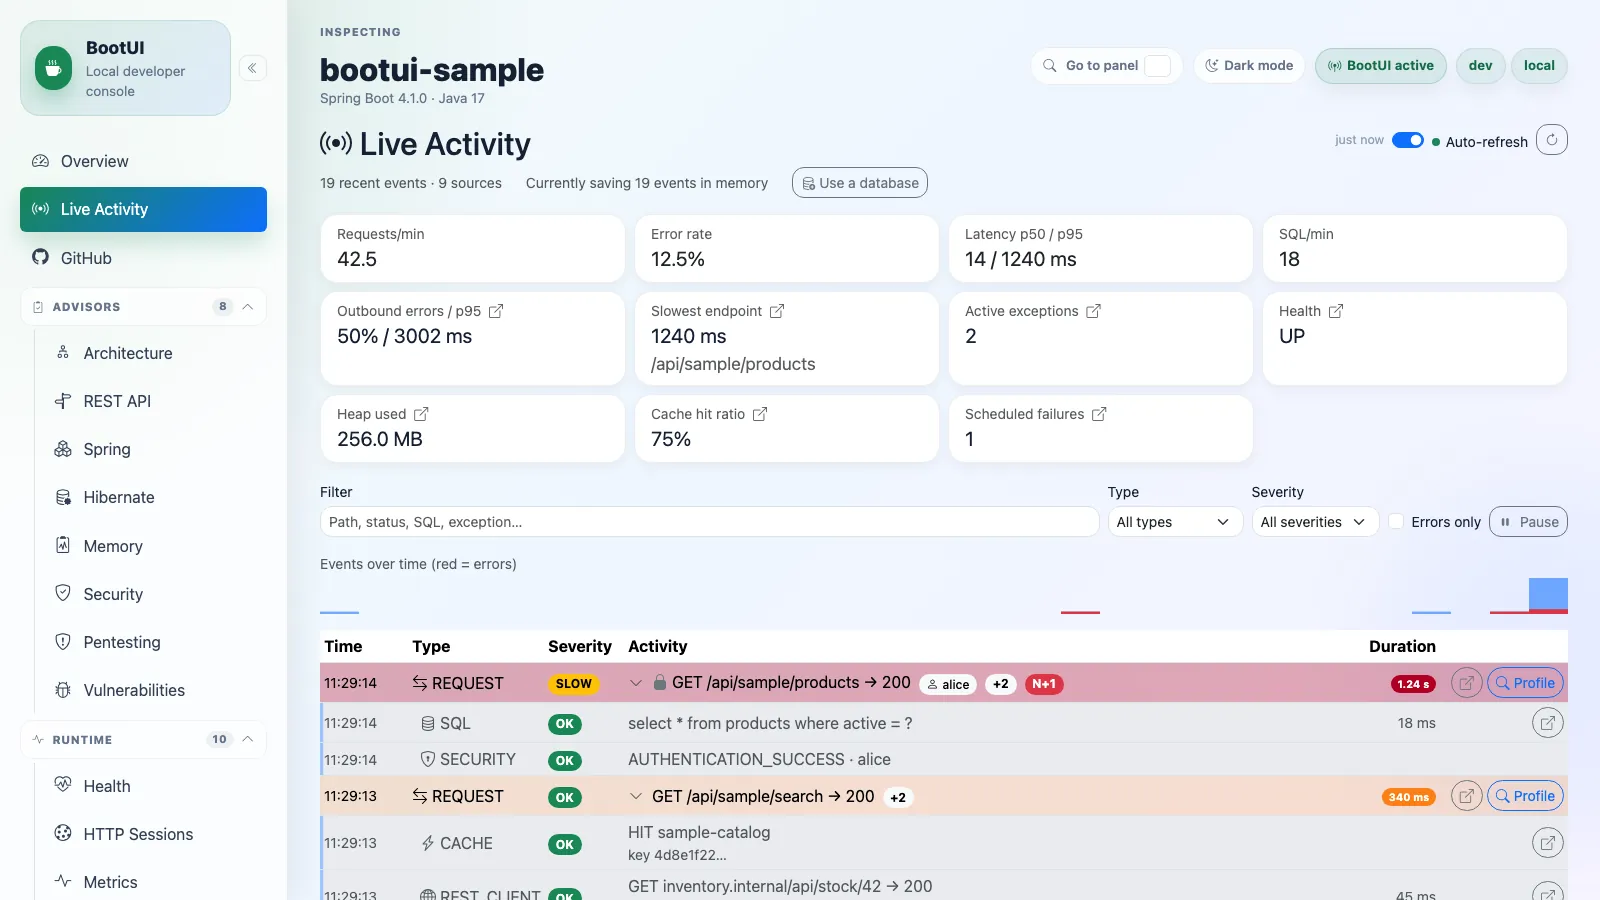
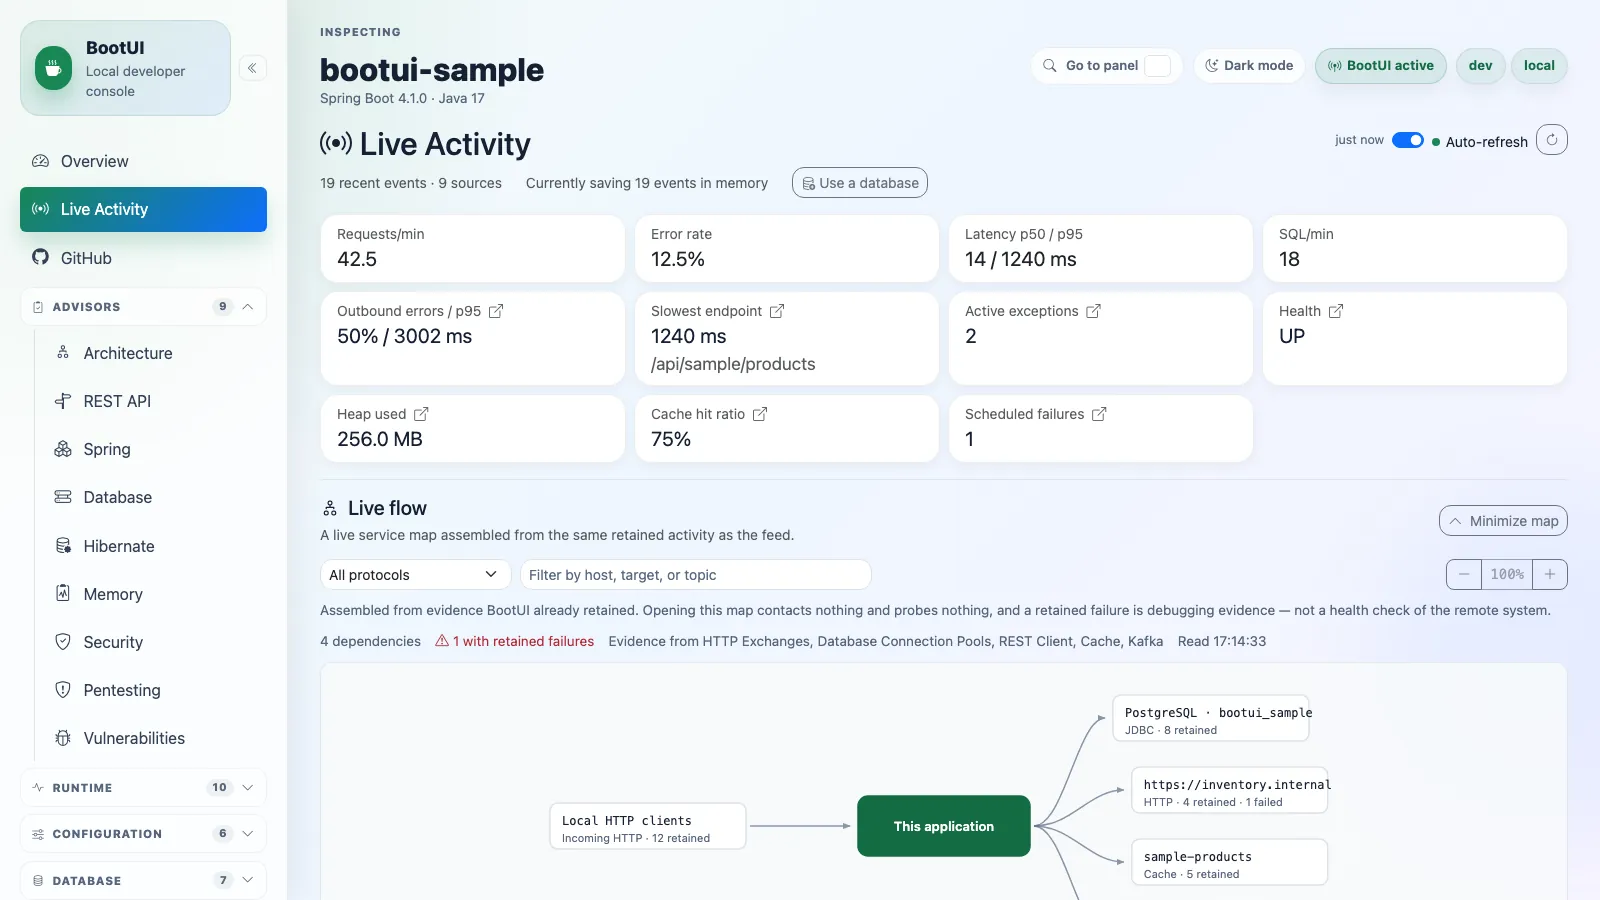
docs: prepare v1.14.0 release
Copilot-Session: 99bc96fd-2d8b-4248-aae6-c61830f6dd78

diff --git a/CHANGELOG.md b/CHANGELOG.md
@@ -7,6 +7,54 @@ to [Semantic Versioning](https://semver.org/spec/v2.0.0.html).
 
 ## [Unreleased]
 
+## [1.14.0] - 2026-08-16
+
+Feature release headlined by three new database diagnostics — the **Database advisor**, **Transactions**, and
+**Hibernate Statistics** panels — plus Live Activity's animated **Live flow** service map and complete MCP access to
+BootUI's safely exposable features.
+
+### Added
+
+- **Database advisor on Spring MVC, Spring WebFlux, and Quarkus.** A bounded, metadata-only scan inspects every
+  application datasource for schema, key, index, type, and portability risks, with PostgreSQL, MySQL/MariaDB, and
+  Hibernate cross-reference checks. Per-datasource diagnostics make truncation, timeouts, unsupported metadata, and
+  partial reads explicit instead of reporting a clean result (#760, #795).
+- **Transactions panel for Spring MVC and WebFlux.** BootUI now records bounded `@Transactional` boundaries with
+  propagation, isolation, commit/rollback outcome, duration, parent/child nesting, and correlated SQL/connection counts,
+  together with pause, resume, clear, filtering, and SSE updates. R2DBC-only WebFlux applications and Quarkus report the
+  capability honestly unavailable because their transaction APIs expose no equivalent listener hook (#759, #781).
+- **Hibernate Statistics panel on all three runtimes.** The new Database-group view exposes live session, transaction,
+  query, entity, collection, and second-level/query-cache statistics, can explicitly enable collection at runtime, and
+  never resets existing counters. Single-persistence-unit scope and cache availability are reported clearly (#761).
+- **Animated Live flow service map inside Live Activity.** The map assembles existing bounded HTTP, JDBC, REST client,
+  cache, Kafka, and RabbitMQ evidence into configured and observed dependencies, retained failures, deep links, and
+  causally sequenced activity without adding probes, network calls, or new instrumentation. It is responsive,
+  keyboard-accessible, reduced-motion aware, and available on Spring MVC, WebFlux, and Quarkus (#777, #784).
+- **Complete capability-aware MCP feature access.** The local MCP server now exposes every safely passive panel read,
+  cached advisor reports, bounded diagnostic controls, strict tool schemas, execution/response budgets, runtime
+  counters, and full Spring MVC, WebFlux, and Quarkus conformance. Destructive, unbounded, database-mutating,
+  arbitrary-probe, and agent-execution operations remain deliberately excluded (#776, #791).
+- **CycloneDX 1.6 aggregate SBOM generation in CI.** Every build publishes a downloadable `bootui-sbom` workflow
+  artifact without attaching extra artifacts to Maven Central releases (#773).
+
+### Changed
+
+- **Advisor accuracy was audited across Architecture, Spring, Quarkus, Hibernate, Security, REST API, JVM Tuning,
+  Memory, Vulnerabilities, GraalVM, CRaC, Pentesting, and Database.** Rules now model current framework behavior more
+  precisely, use stronger evidence, skip honestly when evidence is unavailable, and keep their check documentation
+  synchronized (#743–#755, #775, #782, #795).
+- **Advisor scores now penalize every concrete finding, not only each violated rule once.** Panels and Overview therefore
+  apply the documented severity weights consistently when one rule reports multiple affected items (#803).
+- **SSE health and auto-refresh are one control.** Live Activity, Exceptions, SQL Trace, Security Logs, REST Client, and
+  Transactions share quiet healthy/paused states plus accessible reconnecting, unavailable, and retry feedback (#757,
+  #783).
+- **Panel documentation is now contract-checked.** Conformance tests keep backend manifests, feature headings, access
+  properties, read endpoints, MCP tool lists, screenshot files, and screenshot embeds aligned with authoritative code
+  catalogs (#797–#804).
+- **Build and release integrity is stricter.** CI adds focused coverage gates and deterministic OSV checks, while the
+  release workflow validates version transitions and immutable release commits/tags, publishes only the intended Maven
+  Central modules, and preserves resumable post-publication verification (#723, #731, #739, #741, #778).
+
 ### Fixed
 
 - **Quarkus Security advisor rules now match Quarkus 3.33 LTS effective behavior.** The 49-rule catalogue
@@ -16,7 +64,22 @@ to [Semantic Versioning](https://semver.org/spec/v2.0.0.html).
   secret checks now use raw config/source metadata so environment/system properties, expressions, dev/test values, and
   non-secret `token.*` settings do not become CRITICAL findings. Added checks for plain-text embedded passwords and
   disabled TLS hostname verification; retired `QS-AUTH-006` because MicroProfile JWT already pins the absent algorithm
-  property to RS256.
+  property to RS256 (#755).
+- **SQL Trace no longer breaks applications that inject vendor-specific datasource interfaces.** JVM proxies preserve
+  interfaces such as Oracle UCP's `PoolDataSource`, while native images retain the fixed pre-registered proxy shape
+  (#779).
+- **WebFlux request handling no longer performs blocking BootUI work on event-loop threads.** Applicable handlers are
+  offloaded without changing the shared API contract (#726).
+- **Bounded runtime data stays bounded under edge cases.** Metrics responses, SQL batch previews, captured email bodies,
+  telemetry snapshots, and scanner concurrency now enforce their configured limits without leaking stale or partial
+  state (#720, #727, #732, #771).
+- **Vulnerability severity summaries reject malformed or contradictory data** instead of producing misleading Overview
+  scores (#742, #780).
+- **Shared UI state is more resilient.** Data panels avoid stale-request races, platform-aware navigation recovers after
+  manifest changes, keyboard behavior and chart contrast are improved, and responsive/reduced-motion layouts no longer
+  hide or over-animate controls (#721, #722, #730, #735, #737).
+- **Dev Services classification is consistent across Spring and Quarkus**, including datasource and messaging service
+  type inference (#772).
 
 ## [1.13.1] - 2026-08-07
 
@@ -1380,7 +1443,8 @@ First tagged BootUI alpha. Highlights of the harden-all-visible-panels scope:
   request history, distributed tracing, multi-service orchestration, and live
   Docker Compose lifecycle control are intentionally out of scope for the alpha.
 
-[Unreleased]: https://github.com/jdubois/boot-ui/compare/v1.13.1...HEAD
+[Unreleased]: https://github.com/jdubois/boot-ui/compare/v1.14.0...HEAD
+[1.14.0]: https://github.com/jdubois/boot-ui/compare/v1.13.1...v1.14.0
 [1.13.1]: https://github.com/jdubois/boot-ui/compare/v1.13.0...v1.13.1
 [1.13.0]: https://github.com/jdubois/boot-ui/compare/v1.12.0...v1.13.0
 [1.12.0]: https://github.com/jdubois/boot-ui/compare/v1.11.0...v1.12.0

diff --git a/docs/SPECIFICATION.md b/docs/SPECIFICATION.md
@@ -1584,44 +1584,6 @@ Acceptance criteria:
 - Spring MVC, Spring WebFlux, and Quarkus report equivalent statistics data through the same
   `/bootui/api/hibernate-statistics` contract wherever Hibernate ORM is present.
 
-### 5.17.1.2 Database Panel
-
-Purpose: answer "Does my application's physical schema hold up structurally, and does it still match what my entities
-assume?"
-
-Data sources:
-
-- Every discovered application `DataSource` bean, read through JDBC `DatabaseMetaData` (tables, columns, primary and
-  foreign keys, indexes) over a short-lived, read-only connection.
-- Read-only PostgreSQL `pg_catalog` and MySQL/MariaDB `information_schema` augmentation, selected from the detected
-  dialect and reported server version.
-- The same JPA metamodel the Hibernate panel reads, when one is available for the same application.
-
-Features:
-
-- Run explicit, read-only, bounded physical-schema checks and cross-reference them against mapped entities.
-- Report findings by severity with sample evidence and remediation guidance, cached until the next explicit scan.
-- Report per-datasource read status (`AVAILABLE`/`PARTIAL`/`FAILED`) with the detected product and dialect.
-- Report every datasource, table, catalog augmentation, bound and rule that could not be evaluated as a diagnostic,
-  separately from findings.
-
-Out of scope for the current release surface:
-
-- Executing DDL, querying application data, analysing query plans or workload, or proposing indexes from observed usage.
-
-Acceptance criteria:
-
-- The scan is bounded in tables, columns, indexes, catalog rows and wall-clock time, and reaching a bound is reported
-  rather than silently truncating the result.
-- The connection's original read-only state is restored before it returns to the pool.
-- A failed datasource, an unreadable table, a blocked catalog view, a truncated scan, or a skipped/errored rule is never
-  reported as a passing check and never counted as a violation; the scan status is `SCANNED` only when everything was
-  read completely.
-- Credentials in a JDBC URL or driver error message are redacted from every message, independently of the value
-  exposure policy.
-- Rule ids are stable across releases so dismissals keep applying.
-- The scan action is blocked by global read-only mode and the panel's read-only policy.
-
 ### 5.17.2 Flyway Panel
 
 Purpose: answer "Which Flyway-managed databases exist, what schema version is applied, which migrations are applied or
@@ -2291,17 +2253,30 @@ Design rules:
   `tools/call` remains an HTTP `200` MCP response but returns an in-band tool error (`isError: true`) with the canonical
   busy message. Panel disabled/read-only policy is checked first, and the aggregate MCP concurrent-call cap remains a
   separate capacity limit.
-- **Tool surface.** Every available panel with a safe passive read has an MCP read tool. Advisor action tools include
-  architecture, Spring/Quarkus, Hibernate, database, memory, security, pentesting, REST API, GraalVM, CRaC, and
-  vulnerability scans; matching `get_*_report` tools read the cached result without rescanning. Diagnostics include
-  live activity, exceptions and detail, security logs, SQL and transaction boundaries, traces, logs, HTTP exchanges,
-  and REST-client traces. Context and integration reads cover overview, health, masked configuration, beans, mappings,
-  loggers, conditions, scheduled tasks, caches, connection pools, metrics, JVM/memory/thread/startup state, persistence
-  integrations, AI/messaging activity, development services, cached GitHub data, and local agent-session summaries.
-  Bounded actions may clear in-memory buffers, pause/resume supported recorders, analyze an existing heap dump, or
-  trigger LiveReload. Heap capture/download, HTTP probes, database/cache mutations, GitHub writes, dev-service
-  restarts, and arbitrary agent commands are deliberately excluded. Tools whose backing controller is absent or not
-  applicable to the running stack are not advertised.
+- **Tool surface.** Every available panel with a safe passive read has an MCP read tool:
+  - Advisor actions: `architecture_scan`, `spring_scan`, `hibernate_scan`, `database_advisor_scan`, `memory_scan`,
+    `security_scan`, `pentest_scan`, `rest_api_scan`, `graalvm_scan`, `crac_scan`, and `vulnerabilities_scan`.
+  - Cached advisor reports: `get_architecture_report`, `get_spring_report`, `get_hibernate_report`,
+    `get_database_advisor_report`, `get_memory_report`, `get_security_report`, `get_pentest_report`,
+    `get_rest_api_report`, `get_graalvm_report`, `get_crac_report`, and `get_vulnerabilities_report`.
+  - Diagnostics: `get_live_activity`, `get_exceptions`, `get_exception_detail`, `get_security_logs`,
+    `get_sql_traces`, `get_transactions`, `get_traces`, `get_log_tail`, `get_http_exchanges`, and
+    `get_rest_client_traces`.
+  - Runtime and integration reads: `get_overview`, `get_health`, `get_config`, `get_beans`, `get_mappings`,
+    `get_loggers`, `get_conditions`, `get_http_sessions`, `get_scheduled_tasks`, `get_cache_stats`,
+    `get_database_connection_pools`, `get_metrics`, `get_live_memory`, `get_jvm_tuning`, `get_heap_dump_report`,
+    `get_threads`, `get_startup_timeline`, `get_profile_diff`, `get_spring_data_repositories`,
+    `get_flyway_migrations`, `get_liquibase_changesets`, `get_spring_security`, `get_ai_overview`, `get_emails`,
+    `get_kafka_activity`, `get_rabbitmq_activity`, `get_jms_activity`, `get_devtools_status`, `get_dev_services`,
+    `get_github_dashboard`, `get_copilot_sessions`, and `get_claude_code_sessions`.
+  - Bounded actions: `clear_exceptions`, `clear_sql_traces`, `pause_sql_trace_recording`,
+    `resume_sql_trace_recording`, `clear_transactions`, `pause_transaction_recording`,
+    `resume_transaction_recording`, `clear_traces`, `clear_rest_client_traces`, `pause_rest_client_recording`,
+    `resume_rest_client_recording`, `analyze_heap_dump`, and `trigger_devtools_livereload`.
+
+  Heap capture/download, HTTP probes, database/cache mutations, GitHub writes, dev-service restarts, and arbitrary agent
+  commands are deliberately excluded. Tools whose backing controller is absent or not applicable to the running stack
+  are not advertised.
 - **Strict inputs.** The transport rejects invalid JSON-RPC id/params types, non-object tool arguments, unknown
   arguments, and values whose type does not match the advertised schema with `-32600`/`-32602`; malformed values are
   never silently coerced or replaced with broad defaults.

diff --git a/docs/AI-AGENTS.md b/docs/AI-AGENTS.md
@@ -91,8 +91,10 @@ the classpath) are simply not advertised.
   `memory_scan`, `security_scan`, `pentest_scan`, `rest_api_scan`, `graalvm_scan`, `crac_scan`, and
   `vulnerabilities_scan`. Each runs the same scan as the panel's action button and returns the report DTO;
   `vulnerabilities_scan` additionally makes outbound calls to OSV.dev.
-- **Cached advisor reports:** matching `get_*_report` tools return the last completed report without starting another
-  scan, including `get_database_advisor_report`, `get_graalvm_report`, and `get_crac_report` where applicable.
+- **Cached advisor reports:** `get_architecture_report`, `get_spring_report`, `get_hibernate_report`,
+  `get_database_advisor_report`, `get_memory_report`, `get_security_report`, `get_pentest_report`,
+  `get_rest_api_report`, `get_graalvm_report`, `get_crac_report`, and `get_vulnerabilities_report` return the last
+  completed report without starting another scan.
 - **Diagnostics reads:** `get_live_activity`, `get_exceptions`, `get_exception_detail`, `get_security_logs`,
   `get_sql_traces`, `get_transactions` (Spring MVC/WebFlux only), `get_traces`, `get_log_tail`, `get_http_exchanges`,
   and `get_rest_client_traces`.
@@ -100,17 +102,19 @@ the classpath) are simply not advertised.
   statements, exceptions, and security events grouped by request/trace); `get_exception_detail` takes a required `id`
   (from `get_exceptions` or `get_live_activity`) and returns that exception group's full stack trace, causes, and
   individual occurrences.
-- **Core context reads:** `get_overview`, `get_health`, `get_config` (masked), `get_beans`, `get_mappings`,
-  `get_loggers`, `get_conditions` (Spring MVC/WebFlux only), `get_scheduled_tasks`, `get_cache_stats`,
+- **Core context and integration reads:** `get_overview`, `get_health`, `get_config` (masked), `get_beans`,
+  `get_mappings`, `get_loggers`, `get_conditions`, `get_http_sessions`, `get_scheduled_tasks`, `get_cache_stats`,
   `get_database_connection_pools`, `get_metrics`, `get_live_memory`, `get_jvm_tuning`, `get_heap_dump_report`,
   `get_threads`, `get_startup_timeline`, `get_profile_diff`, `get_spring_data_repositories`,
-  `get_flyway_migrations`, `get_liquibase_changesets`, `get_spring_security`, `get_ai_overview`, messaging activity,
-  DevTools/Dev Services, GitHub's cached dashboard, and local Copilot/Claude Code session summaries. Stack-specific or
-  unavailable capabilities are omitted.
-- **Bounded controls (actions):** tools can clear in-memory exception/trace buffers, pause or resume SQL,
-  transaction, and REST-client recording, analyze an existing heap dump, and trigger Spring DevTools LiveReload.
-  They never capture or download a heap dump, execute an HTTP probe, mutate a database, clear a cache, write GitHub
-  state, restart a dev service, or run an agent command.
+  `get_flyway_migrations`, `get_liquibase_changesets`, `get_spring_security`, `get_ai_overview`, `get_emails`,
+  `get_kafka_activity`, `get_rabbitmq_activity`, `get_jms_activity`, `get_devtools_status`, `get_dev_services`,
+  `get_github_dashboard`, `get_copilot_sessions`, and `get_claude_code_sessions`. Stack-specific or unavailable
+  capabilities are omitted.
+- **Bounded controls (actions):** `clear_exceptions`, `clear_sql_traces`, `pause_sql_trace_recording`,
+  `resume_sql_trace_recording`, `clear_transactions`, `pause_transaction_recording`, `resume_transaction_recording`,
+  `clear_traces`, `clear_rest_client_traces`, `pause_rest_client_recording`, `resume_rest_client_recording`,
+  `analyze_heap_dump`, and `trigger_devtools_livereload`. They never capture or download a heap dump, execute an HTTP
+  probe, mutate a database, clear a cache, write GitHub state, restart a dev service, or run an agent command.
 
 ### Safety model
 

diff --git a/docs/FEATURES.md b/docs/FEATURES.md
@@ -1859,20 +1859,27 @@ groups:
 
 - **Advisor scans and cached reports:** action tools include `architecture_scan`, `spring_scan`, `hibernate_scan`,
   `database_advisor_scan`, `memory_scan`, `security_scan`, `pentest_scan`, `rest_api_scan`, `graalvm_scan`,
-  `crac_scan`, and `vulnerabilities_scan`. Matching `get_*_report` tools return the last report without rerunning the
-  scan. `vulnerabilities_scan` additionally makes outbound calls to OSV.dev.
+  `crac_scan`, and `vulnerabilities_scan`. Cached reads are `get_architecture_report`, `get_spring_report`,
+  `get_hibernate_report`, `get_database_advisor_report`, `get_memory_report`, `get_security_report`,
+  `get_pentest_report`, `get_rest_api_report`, `get_graalvm_report`, `get_crac_report`, and
+  `get_vulnerabilities_report`. `vulnerabilities_scan` additionally makes outbound calls to OSV.dev.
 - **Diagnostics reads:** `get_live_activity`, `get_exceptions`, `get_exception_detail`, `get_security_logs`,
   `get_sql_traces`, `get_transactions` (Spring MVC/WebFlux only), `get_traces`, `get_log_tail`, `get_http_exchanges`,
   and `get_rest_client_traces`. `get_live_activity` returns the correlated feed this panel shows, including HTTP
   requests, SQL statements, exceptions, security events, scheduled-task runs, and, on Spring, cache accesses grouped by
   request or trace. `get_exception_detail` returns a selected exception group's stack trace, causes, and occurrences.
-- **Runtime and integration reads:** the existing core context tools plus safe passive views for metrics, live memory,
-  JVM tuning, heap-dump metadata, threads, startup, profile differences, Spring Data, Flyway, Liquibase, Spring
-  Security, AI telemetry, messaging activity, DevTools/Dev Services, the cached GitHub dashboard, and local
-  Copilot/Claude Code session summaries. The live status response and MCP panel are the authoritative catalog for the
-  running stack.
-- **Bounded controls:** action tools clear in-memory diagnostic buffers, pause or resume supported recorders, analyze
-  an existing heap dump, and trigger Spring DevTools LiveReload. Destructive, database-mutating, arbitrary-command,
+- **Runtime and integration reads:** `get_overview`, `get_health`, `get_config`, `get_beans`, `get_mappings`,
+  `get_loggers`, `get_conditions`, `get_http_sessions`, `get_scheduled_tasks`, `get_cache_stats`,
+  `get_database_connection_pools`, `get_metrics`, `get_live_memory`, `get_jvm_tuning`, `get_heap_dump_report`,
+  `get_threads`, `get_startup_timeline`, `get_profile_diff`, `get_spring_data_repositories`,
+  `get_flyway_migrations`, `get_liquibase_changesets`, `get_spring_security`, `get_ai_overview`, `get_emails`,
+  `get_kafka_activity`, `get_rabbitmq_activity`, `get_jms_activity`, `get_devtools_status`, `get_dev_services`,
+  `get_github_dashboard`, `get_copilot_sessions`, and `get_claude_code_sessions`. The live status response and MCP
+  panel are the authoritative catalog for the running stack.
+- **Bounded controls:** `clear_exceptions`, `clear_sql_traces`, `pause_sql_trace_recording`,
+  `resume_sql_trace_recording`, `clear_transactions`, `pause_transaction_recording`, `resume_transaction_recording`,
+  `clear_traces`, `clear_rest_client_traces`, `pause_rest_client_recording`, `resume_rest_client_recording`,
+  `analyze_heap_dump`, and `trigger_devtools_livereload`. Destructive, database-mutating, arbitrary-command,
   heap-capture/download, HTTP-probe, GitHub-write, and dev-service-restart operations are deliberately not exposed.
 
 Tools whose backing panel/controller is not present (for example Hibernate or Spring Security when those libraries are

diff --git a/docs/WEBFLUX-SUPPORT.md b/docs/WEBFLUX-SUPPORT.md
@@ -107,13 +107,14 @@ reactive binding (e.g. a `WebFilter` capturing into the same engine store) · `R
 capture layer replacing a servlet-only primitive · `Not yet ported` = deliberately deferred, no reactive
 implementation wired yet · `Not applicable` = no faithful reactive analog exists for this panel's concept.
 
-### 6.1 Ported as-is (40 panels)
+### 6.1 Ported as-is (41 panels)
 
 Bulk-imported from the servlet adapter's `@RestController`s with no code changes at all — confirming these
 controllers were already framework-neutral in practice, not just in the engine underneath them:
 
 Overview · GitHub · Beans · Conditions · Configuration · Mappings · Health · Loggers · Startup Timeline · Spring Data ·
-Hibernate · Hibernate Statistics · Flyway · Liquibase · Database Connection Pools · Cache · Dev Services · Vulnerabilities · Scheduled Tasks ·
+Database · Hibernate · Hibernate Statistics · Flyway · Liquibase · Database Connection Pools · Cache · Dev Services ·
+Vulnerabilities · Scheduled Tasks ·
 HTTP Probe · Pentesting · Heap Dump · Architecture · REST API advisor · Profile Diff · Spring advisor[^spring-advisor-reactive] ·
 Live Memory · JVM Tuning · Metrics · DevTools · Traces · AI Framework · GraalVM · CRaC · Threads · Memory · Email · Kafka ·
 RabbitMQ · JMS. `KafkaController`, `RabbitController`, and `JmsController`, plus their template/listener-factory
